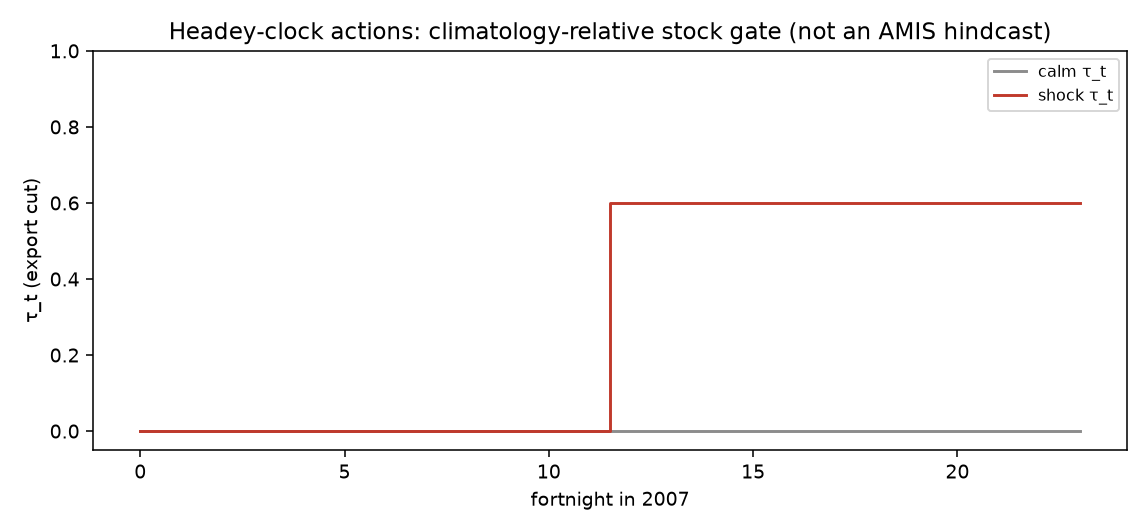
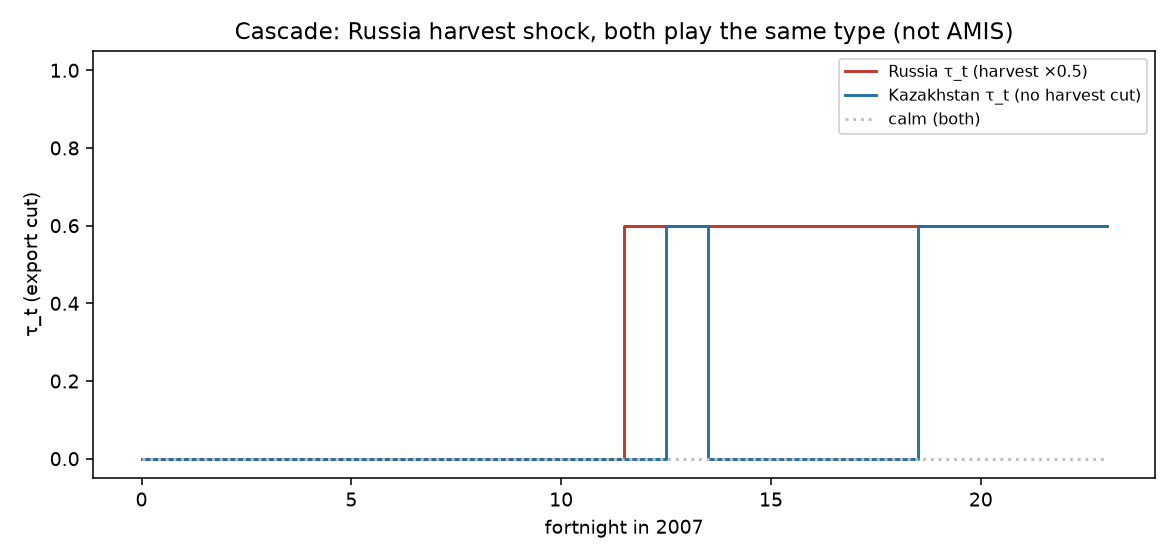
Score the two-player Headey cascade and refresh the path figure.
Russia 12/24 fortnights on (first step 12); Kazakhstan 6/24 (first step 13),
no own harvest cut. All hard bars PASS. Gate 0/1 not re-run.

Changed region(s): [[0.0, 0.0301, 1.0, 0.9624], [0.5183, 0.3609, 0.9451, 0.4211]]

diff --git a/diagnostics/gate2_beta_report.md b/diagnostics/gate2_beta_report.md
@@ -1,14 +1,17 @@
 # Gate 2 beta
 
-Exporter Russia wheat. Synthetic 2007 harvest ×0.5. AMIS off. Illustrative types: `gov_stu`=0.48, `fs_stock_weight`=12, `tau_on`=0.6, `stock_ratio_trigger`=0.85. s_gov = 18.13 MMT.
+Players Russia, Kazakhstan. Synthetic 2007 Russia harvest ×0.5; Kazakhstan harvest unchanged. AMIS off. Illustrative types: `gov_stu`=0.48, `fs_stock_weight`=12, `tau_on`=0.6, `stock_ratio_trigger`=0.85. s_gov (Russia) = 18.13 MMT.
 
 Gate 0 and Gate 1 were **not** re-run. Clock: `diagnostics/GAME_CLOCK.md`.
 
 ### Headey path (headline)
 
-- Calm fortnights on: **0** / 24
-- Shock fortnights on: **12** / 24 (min S/S_calm = 0.45)
-- Shock shipments 3.27 → 3.25 MMT
+- Russia calm on: **0** / 24; shock on: **12** / 24 (first step 12, min S/S_calm = 0.45)
+- Kazakhstan calm on: **0** / 24; shock on: **6** / 24 (first step 13, min S/S_calm = 0.76) — no own harvest cut
+- Russia shipments 3.27 → 3.25 MMT
+- Kazakhstan shipments 6.66 → 6.28 MMT
+
+Cascade is **harvest diversion** (Kazakhstan’s open-path S/S_calm already below r after Russia’s harvest fails), not sequential ban-on-ban IBR. Ukraine is on the market but does not play.
 
 ### Nested year-open-loop BR (diagnostic)
 
@@ -18,9 +21,11 @@ Gate 0 and Gate 1 were **not** re-run. Clock: `diagnostics/GAME_CLOCK.md`.
 - [PASS] nested year: calm τ* = 0
 - [PASS] nested year: shock τ* > 0
 - [PASS] nested year: shock τ* cuts shipments vs τ=0
-- [PASS] Headey path: calm τ_t = 0
-- [PASS] Headey path: shock some τ_t > 0
-- [PASS] Headey path: cuts shipments vs open
+- [PASS] Headey: calm all players τ_t = 0
+- [PASS] Headey: shock Russia some τ_t > 0
+- [PASS] Headey: shock Kazakhstan some τ_t > 0 (no own harvest cut)
+- [PASS] Headey: Kazakhstan lags or ties Russia
+- [PASS] Headey: Russia cuts shipments vs open
 
 Not scored against 2008/10 AMIS. See `diagnostics/GATE2_PLAN.md`.
 
